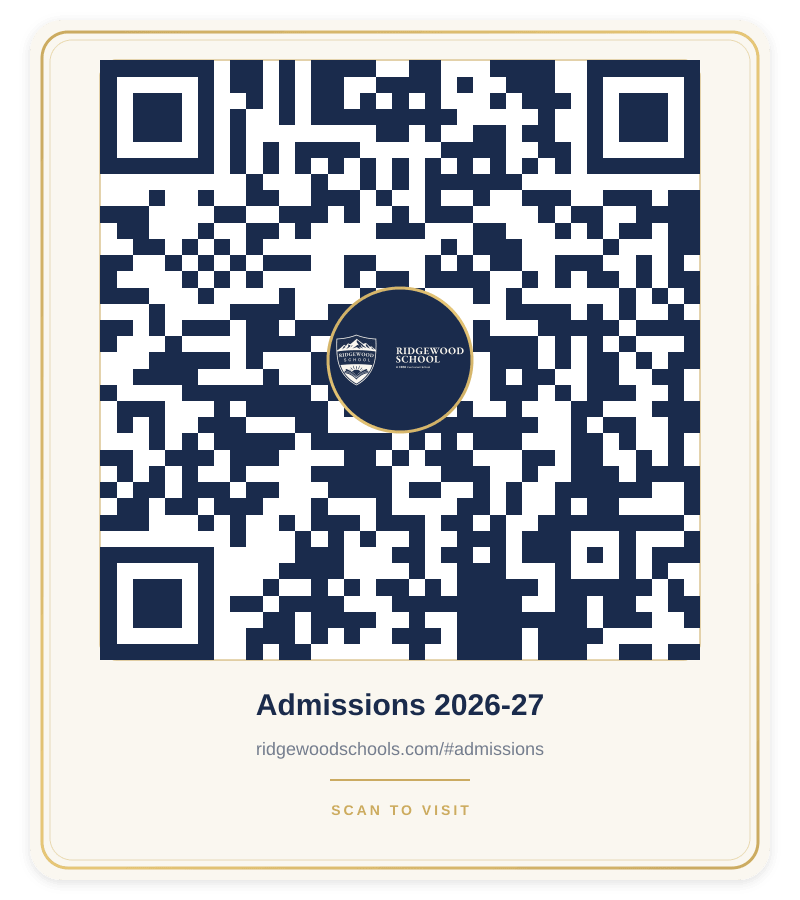
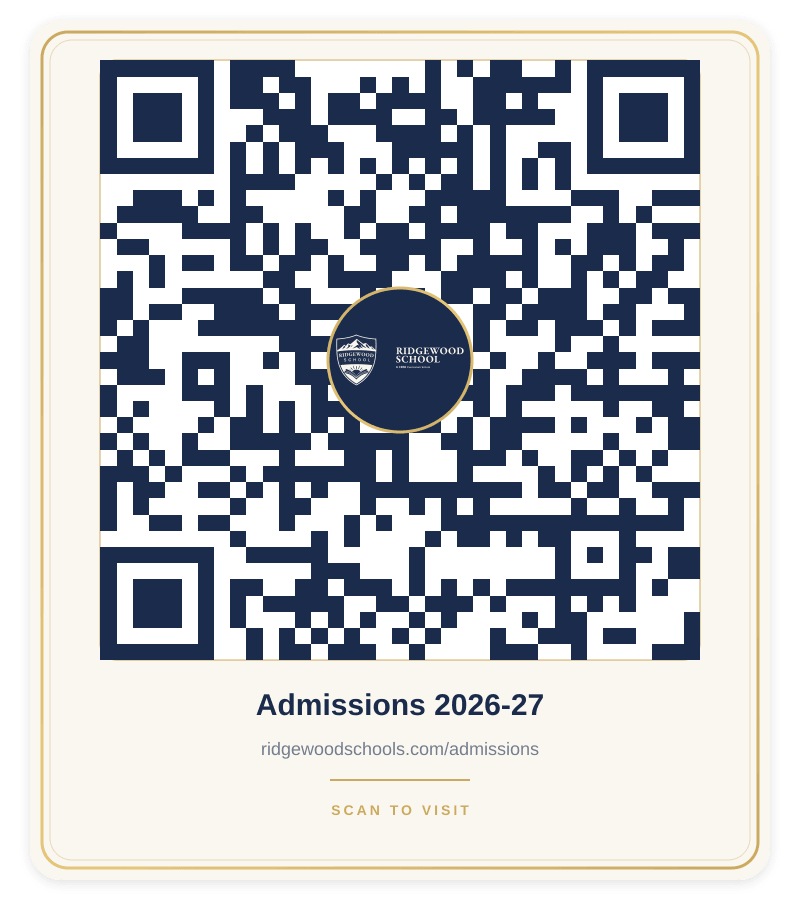
Fix admission QR code: was scanning to ridgewoodschools.com/#admissions but the domain redirect (ridgewoodschools.com → www.ridgewoodschools.com) strips the #admissions hash, so users landed on the homepage instead of the admission form. Fixed with 3 changes: 1. next.config.ts: added /admissions → /

Changed region(s): [[0.125, 0.0622, 0.875, 0.7467], [0.3125, 0.8089, 0.6875, 0.84]]

diff --git a/src/components/site/welcome-gate.tsx b/src/components/site/welcome-gate.tsx
@@ -36,7 +36,24 @@ export function WelcomeGate() {
   // On mount: check sessionStorage to decide whether to show this session.
   // (sessionStorage is cleared when the browser is closed, so the gate will
   //  show again the next time the user opens the site fresh.)
+  // Also skip the gate if the URL has a hash (e.g. #admissions from a QR code)
+  // so users scanning a QR code go directly to the target section.
   React.useEffect(() => {
+    // If URL has a hash (e.g. #admissions), skip the gate entirely
+    if (window.location.hash) {
+      document.documentElement.classList.remove("gate-active");
+      document.documentElement.classList.add("gate-done");
+      setStage("exited");
+      // Also remove the pre-hydration blocker style if present
+      const blockerStyle = document.getElementById("gate-blocker-style");
+      if (blockerStyle) blockerStyle.remove();
+      // Scroll to the target after a short delay (let components load)
+      setTimeout(() => {
+        const target = document.getElementById(window.location.hash.slice(1));
+        if (target) target.scrollIntoView({ behavior: "smooth", block: "start" });
+      }, 1500);
+      return;
+    }
     try {
       const seen = window.sessionStorage.getItem(STORAGE_KEY);
       if (!seen) {

diff --git a/src/app/layout.tsx b/src/app/layout.tsx
@@ -146,12 +146,16 @@ export default function RootLayout({
           dangerouslySetInnerHTML={{
             __html: `(function(){
               try {
+                // If URL has a hash (e.g. #admissions from a QR code scan),
+                // skip the gate entirely so the user goes directly to the target.
+                if (window.location.hash) {
+                  document.documentElement.classList.add('gate-done');
+                  return;
+                }
                 // Skip for bots/crawlers (Googlebot, Lighthouse, Bingbot, etc.)
                 // so SEO audits and search engines can always see the content.
                 var ua = navigator.userAgent || '';
                 var isBot = /Googlebot|Lighthouse|bingbot|Slurp|DuckDuckBot|Baiduspider|YandexBot|Sogou|Exabot|facebot|ia_archiver|PTST\\//i.test(ua);
-                // Also skip if the page was server-rendered with a "no-gate" hint
-                // (e.g. from a bot detection middleware). For now, just check UA.
                 if (isBot) {
                   document.documentElement.classList.add('gate-done');
                   return;

diff --git a/next.config.ts b/next.config.ts
@@ -22,6 +22,18 @@ const nextConfig: NextConfig = {
       },
     ],
   },
+  // Redirect /admissions → homepage with #admissions hash (so QR codes work)
+  // The domain redirect (ridgewoodschools.com → www.ridgewoodschools.com) strips
+  // hash fragments, so we use a path redirect instead which preserves the hash.
+  async redirects() {
+    return [
+      {
+        source: "/admissions",
+        destination: "/#admissions",
+        permanent: false,
+      },
+    ];
+  },
 };
 
 export default nextConfig;
